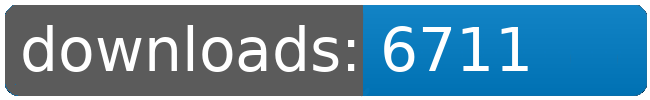
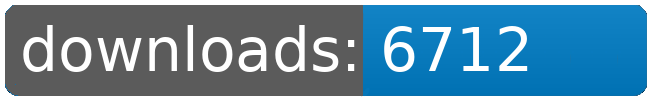
dl log written

Changed region(s): [[0.7692, 0.24, 0.8308, 0.69]]

diff --git a/README.md b/README.md
@@ -32,8 +32,8 @@
 		<td>6671</td>
 		<td>6685</td>
 		<td>6700</td>
-		<td>6711</td>
-		<td>+ 11</td>
+		<td>6712</td>
+		<td>+ 12</td>
 	</tr>
 	<tr>
 		<td>Fundamental.Outfit.Expansion</td>
@@ -120,8 +120,8 @@
 		<td></td>
 		<td></td>
 		<td></td>
-		<td>56305</td>
-		<td>87</td>
+		<td>56306</td>
+		<td>88</td>
 	</tr>
 </table>
 </sub></sup>
@@ -190,8 +190,8 @@
 		<td>6671</td>
 		<td>6685</td>
 		<td>6700</td>
-		<td>6711</td>
-		<td>+ 11</td>
+		<td>6712</td>
+		<td>+ 12</td>
 	</tr>
 	<tr>
 		<td>Solar.Sails</td>
@@ -245,8 +245,8 @@
 		<td></td>
 		<td></td>
 		<td></td>
-		<td>56305</td>
-		<td>87</td>
+		<td>56306</td>
+		<td>88</td>
 	</tr>
 </table>
 </sub></sup>
